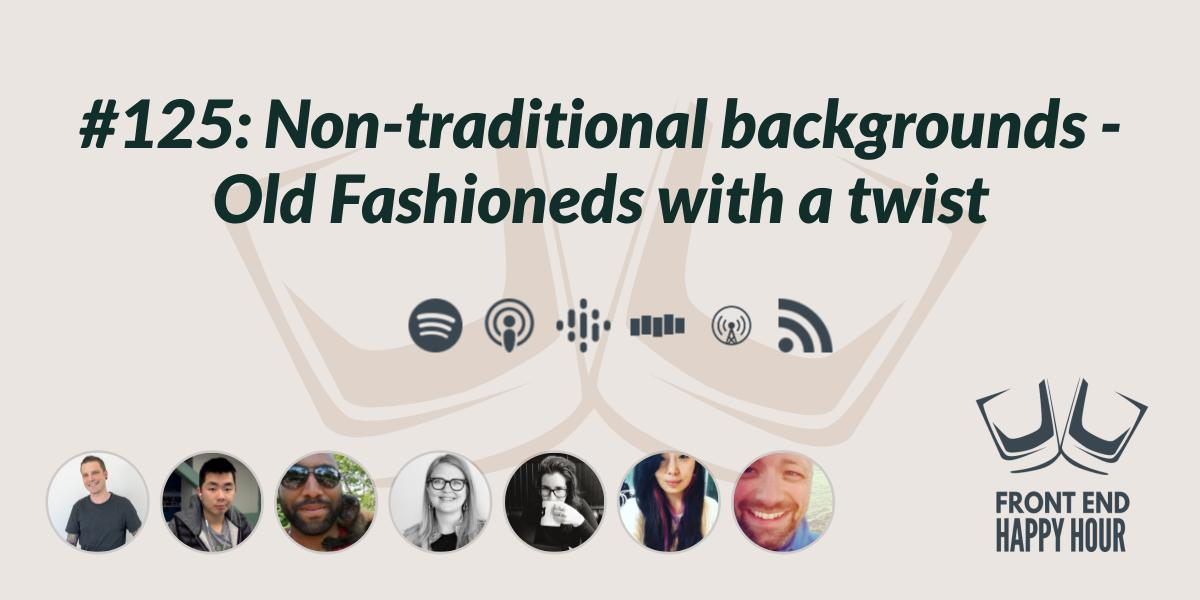
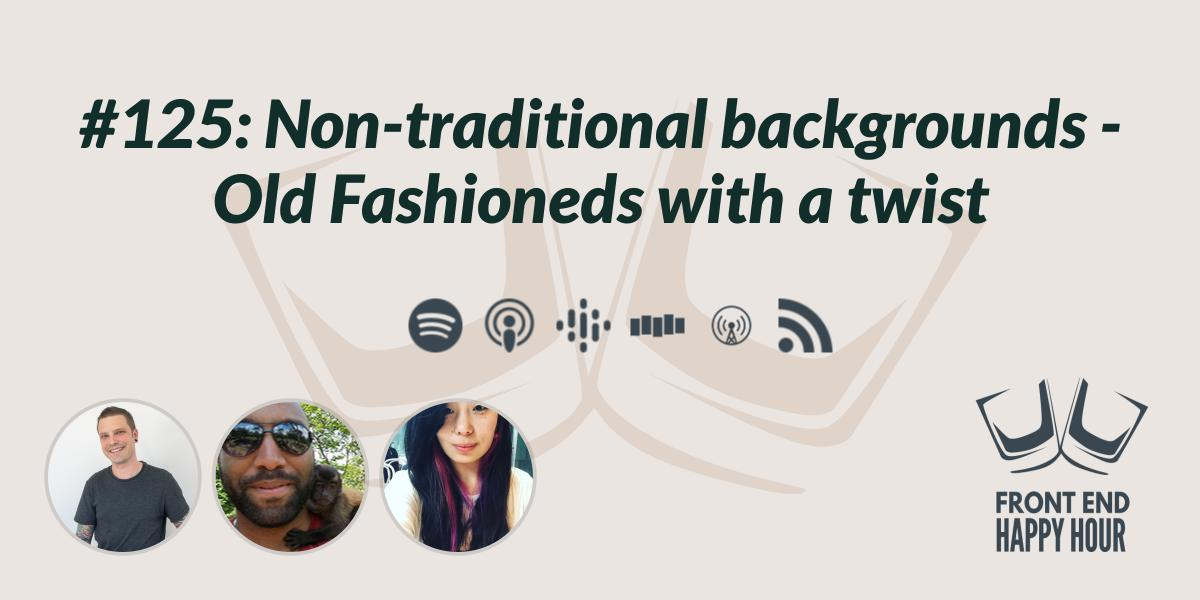
update panelists

Changed region(s): [[0.0308, 0.66, 0.7092, 0.93]]

diff --git a/episodes/non-traditional-backgrounds-old-fashioneds-with-a-twist/index.html b/episodes/non-traditional-backgrounds-old-fashioneds-with-a-twist/index.html
@@ -84,18 +84,9 @@
           <li><a href="/panelists/ryan-burgess"><img src="../../public/img/panel/burgessdryan.jpg" alt="Ryan Burgess profile picture" /></a>
       <span class="name">Ryan Burgess</span>
       <a href="https://twitter.com/burgessdryan" class="twitter">@burgessdryan</a>
-      </li><li><a href="/panelists/augustus-yuan"><img src="../../public/img/panel/augburto.jpg" alt="Augustus Yuan profile picture" /></a>
-      <span class="name">Augustus Yuan</span>
-      <a href="https://twitter.com/augburto" class="twitter">@augburto</a>
       </li><li><a href="/panelists/jem-young"><img src="../../public/img/jem.jpg" alt="Jem Young profile picture" /></a>
       <span class="name">Jem Young</span>
       <a href="https://twitter.com/JemYoung" class="twitter">@JemYoung</a>
-      </li><li><a href="/panelists/stacy-london"><img src="../../public/img/panel/stacylondoner.jpg" alt="Stacy London profile picture" /></a>
-      <span class="name">Stacy London</span>
-      <a href="https://twitter.com/stacylondoner" class="twitter">@stacylondoner</a>
-      </li><li><a href="/panelists/mars-jullian"><img src="../../public/img/panel/marsjosephine.jpg" alt="Mars Jullian profile picture" /></a>
-      <span class="name">Mars Jullian</span>
-      <a href="https://twitter.com/marsjosephine" class="twitter">@marsjosephine</a>
       </li><li><a href="/panelists/shirley-wu"><img src="../../public/img/panel/sxywu.jpg" alt="Shirley Wu profile picture" /></a>
       <span class="name">Shirley Wu</span>
       <a href="https://twitter.com/sxywu" class="twitter">@sxywu</a>
